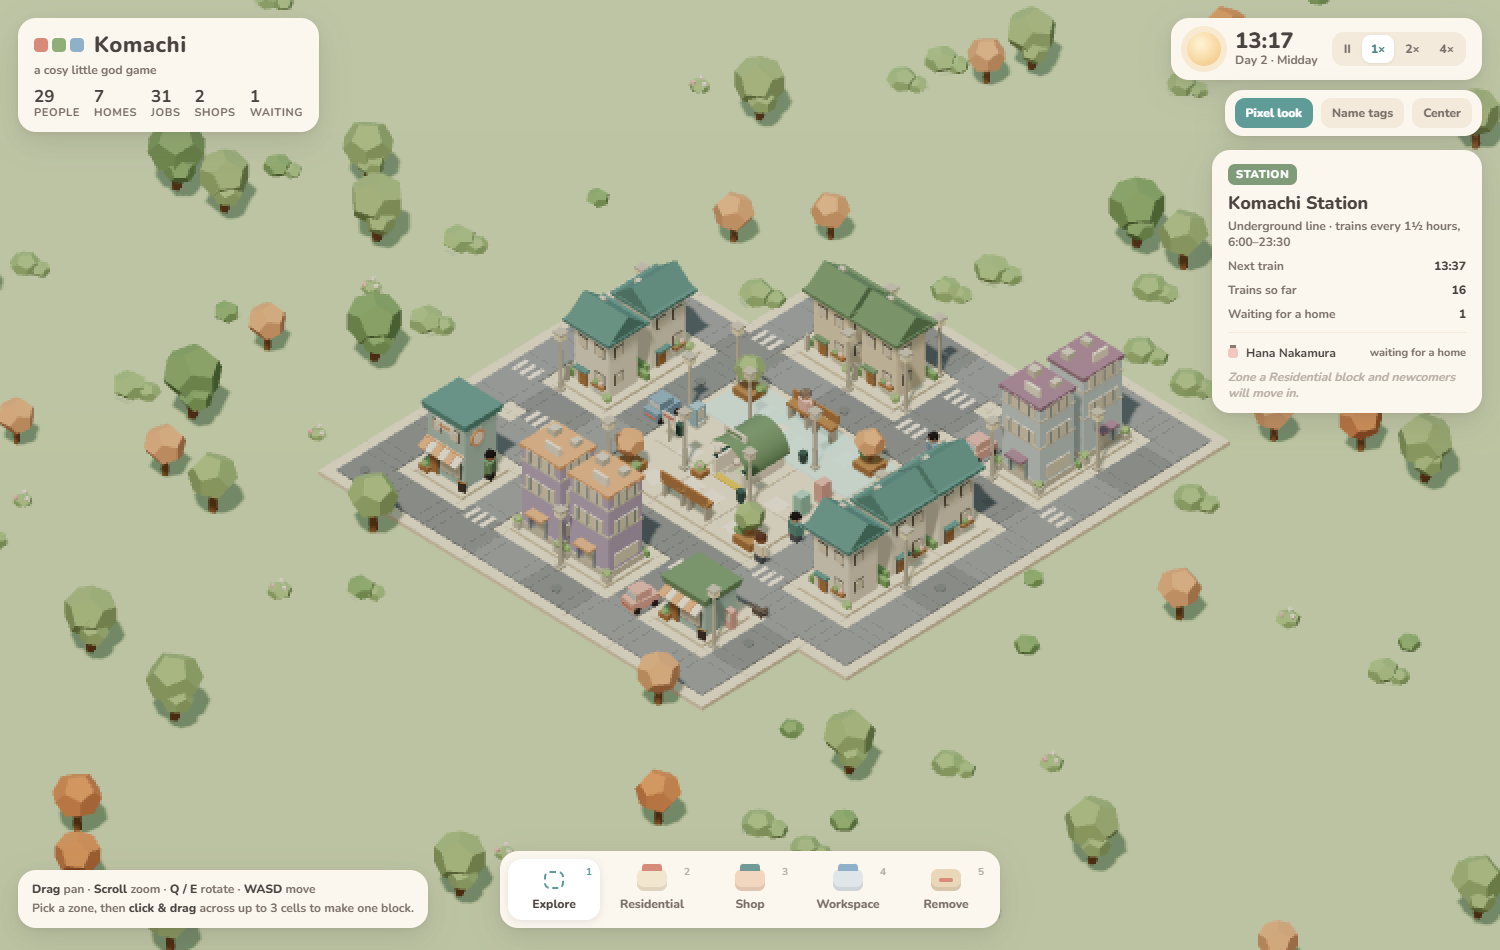
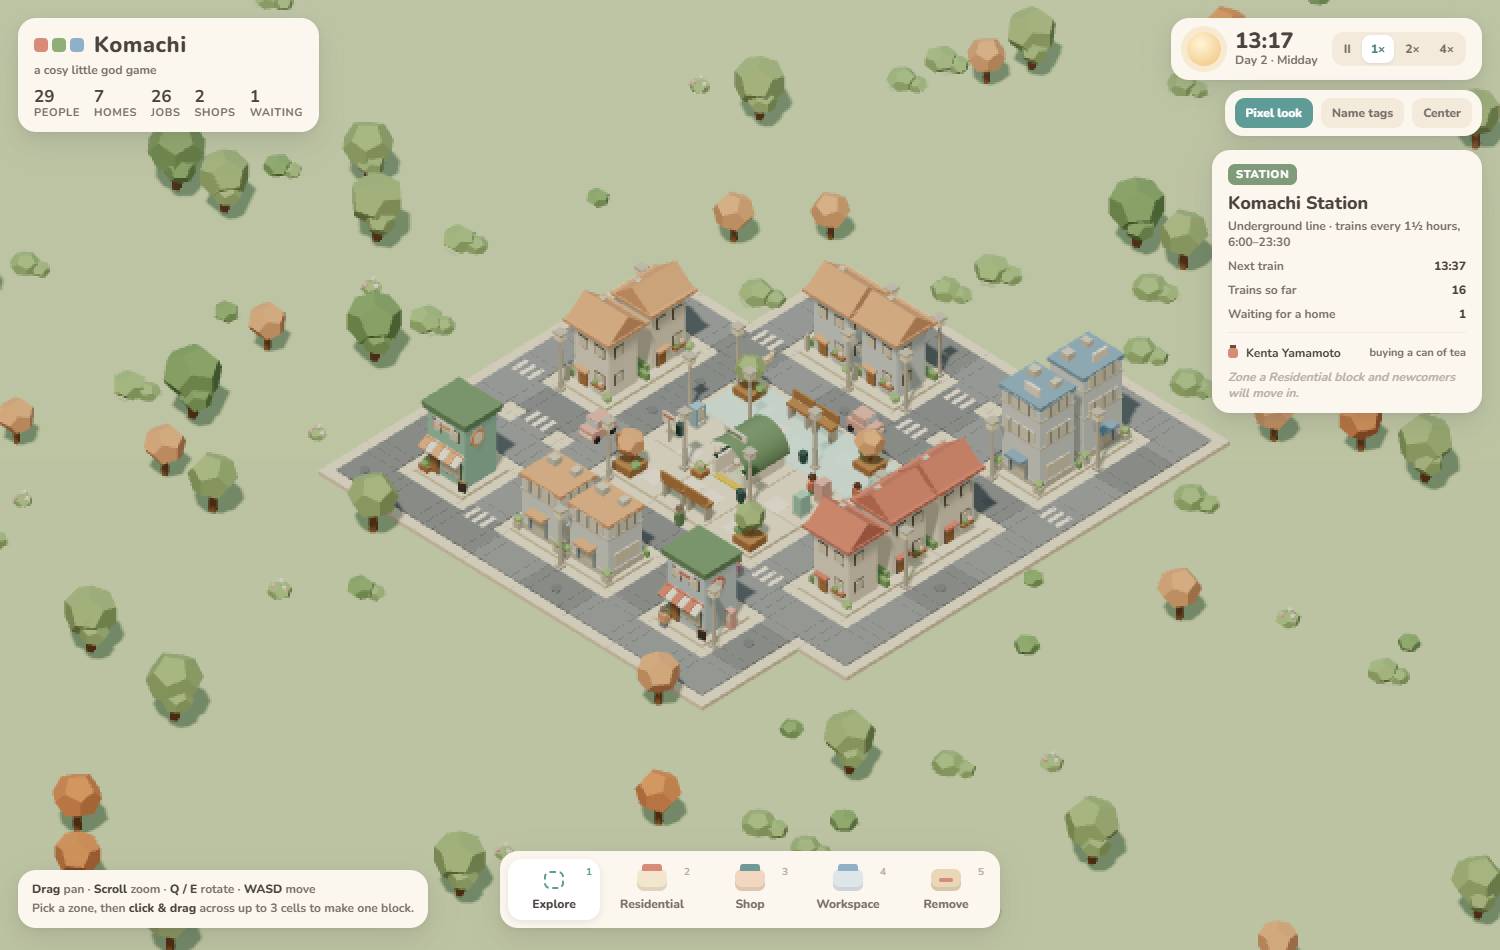
update md and now human come out from the doors

diff --git a/src/sim.js b/src/sim.js
@@ -6,7 +6,7 @@ import { S } from './state.js';
 import { N, HALF, cx, cz, townGroup, peopleGroup, disposeGroup } from './scene.js';
 import { box, cyl, colorize, mergeMesh } from './geometry.js';
 import { cells, cell, DIR4, treeSpec, lotAdjacent8, blocks, units, STAGE_HOURS, unitCap, refreshWorld, onWorldChange, STATION } from './world.js';
-import { rebuildUnitMesh } from './buildings.js';
+import { rebuildUnitMesh, unitDoorPoints } from './buildings.js';
 import { toast } from './toast.js';
 
 // ───────────────────────────── time ─────────────────────────────
@@ -36,8 +36,14 @@ function routeUnits(a, b) {
   const p = routeCells(roadNeighbors(a.cell), roadNeighbors(b.cell)); pathCache.set(key, p); return p;
 }
 const unitPos = u => new THREE.Vector3(cx(u.cell.i), 0, cz(u.cell.j));
+const exitPts = u => unitDoorPoints(u);                 // doorstep → kerb
+const entryPts = u => unitDoorPoints(u).reverse();      // kerb → doorstep
+/** start / end may be a single point or an ordered list of points (e.g. doorstep then kerb). */
 function buildPoints(cellPath, start, end, side, y) {
-  const pts = [start.clone().setY(y)];
+  const sArr = Array.isArray(start) ? start : [start], eArr = Array.isArray(end) ? end : [end];
+  start = sArr[sArr.length - 1]; end = eArr[0];
+  const keepY = p => p.y > 0 ? p.clone() : p.clone().setY(y);   // door points carry their own height
+  const pts = sArr.map(keepY);
   const n = cellPath.length;
   for (let k = 0; k < n; k++) {
     const c = cellPath[k], p = new THREE.Vector3(cx(c.i), y, cz(c.j));
@@ -50,12 +56,13 @@ function buildPoints(cellPath, start, end, side, y) {
     p.x += -dz * side; p.z += dx * side;      // right-hand offset
     pts.push(p);
   }
-  pts.push(end.clone().setY(y));
+  for (const p of eArr) pts.push(keepY(p));
   return pts;
 }
 
 // ───────────────────────────── meshes: people, cars, cats ─────────────────────────────
 const carMeshes = [];
+const PERSON_SCALE = 0.7;   // a floor is ~0.55 units; people read as a bit over half a storey tall
 function makePerson(r) {
   const grp = new THREE.Group(); const g = [];
   g.push(box(0.15, 0.13, 0.11, r.pants, 0, 0.065, 0));
@@ -64,7 +71,7 @@ function makePerson(r) {
   const head = new THREE.SphereGeometry(0.085, 8, 6); head.translate(0, 0.42, 0); g.push(colorize(head, r.skin));
   if (r.hat) { g.push(cyl(0.11, 0.11, 0.03, r.hatColor, 0, 0.47, 0, 10)); g.push(cyl(0.07, 0.075, 0.07, r.hatColor, 0, 0.51, 0, 10)); }
   else { const hair = new THREE.SphereGeometry(0.09, 8, 6, 0, Math.PI * 2, 0, Math.PI / 2); hair.translate(0, 0.43, 0); g.push(colorize(hair, r.hair)); }
-  const m = mergeMesh(g, false); m.castShadow = true; grp.add(m); grp.visible = false; grp.userData.res = r; peopleGroup.add(grp); return grp;
+  const m = mergeMesh(g, false); m.castShadow = true; m.scale.setScalar(PERSON_SCALE); grp.add(m); grp.visible = false; grp.userData.res = r; peopleGroup.add(grp); return grp;
 }
 function makeCar(color) {
   const grp = new THREE.Group(); const g = [];
@@ -83,7 +90,7 @@ function makeCat(color) {
   g.push(box(0.2, 0.09, 0.1, color, 0, 0.08, 0)); const hd = new THREE.SphereGeometry(0.06, 7, 5); hd.translate(0.12, 0.14, 0); g.push(colorize(hd, color));
   g.push(box(0.03, 0.04, 0.03, color, 0.14, 0.19, -0.03)); g.push(box(0.03, 0.04, 0.03, color, 0.14, 0.19, 0.03));
   g.push(box(0.12, 0.03, 0.03, color, -0.14, 0.13, 0, 0)); for (const [x, z] of [[-0.07, -0.03], [0.07, -0.03], [-0.07, 0.03], [0.07, 0.03]]) g.push(box(0.03, 0.05, 0.03, color, x, 0.025, z));
-  const inner = new THREE.Group(); inner.rotation.y = -Math.PI / 2; grp.add(inner);
+  const inner = new THREE.Group(); inner.rotation.y = -Math.PI / 2; inner.scale.setScalar(0.8); grp.add(inner);
   const m = mergeMesh(g, false); inner.add(m); peopleGroup.add(grp); return grp;
 }
 
@@ -154,8 +161,8 @@ function assignHome(r, u) {
   freeSpot(r); if (r.at) r.at.inside.delete(r); r.at = null;
   const start = r.mesh.position.clone().setY(0);
   const path = routeCells(roadNeighbors(STATION.anchor.cell), roadNeighbors(u.cell));
-  if (path) startTrip(r, path, start, unitPos(u), u, 'moving into a new home');
-  else startDirectTrip(r, start, unitPos(u), 'moving in the long way round', () => enterUnit(r, u), 0.06);   // no road yet: cut across the grass
+  if (path) startTrip(r, path, start, entryPts(u), u, 'moving into a new home');
+  else startDirectTrip(r, start, exitPts(u)[0], 'moving in the long way round', () => enterUnit(r, u), 0.06);   // no road yet: cut across the grass
 }
 function enterUnit(r, u) {
   r.trip = null; r.mesh.visible = false; if (r.car) r.car.visible = false;
@@ -227,6 +234,7 @@ function findShop(r, from) {
 }
 function startTrip(r, cellPath, start, end, destUnit, label) {
   const drive = r.hasCar && cellPath.length > 6 && destUnit && destUnit !== STATION.anchor && r.at !== STATION.anchor;
+  if (drive) { if (Array.isArray(start)) start = start[start.length - 1]; if (Array.isArray(end)) end = end[0]; }   // cars stop at the kerb
   const pts = buildPoints(cellPath, start, end, drive ? 0.17 : 0.34, drive ? 0.1 : 0.08);
   r.trip = { pts, i: 0, t: 0, dest: destUnit, drive, speed: drive ? 2.6 : 0.9 * rand(0.85, 1.15), baseY: 0.08 };
   r.state = drive ? 'driving' : 'walking'; r.activity = label;
@@ -236,10 +244,10 @@ function startTrip(r, cellPath, start, end, destUnit, label) {
 function go(r, dest, label) {
   const from = r.at; const path = routeUnits(from, dest);
   if (!path) { r.next = S.T + rand(0.4, 0.9); return false; }
-  const start = from === STATION.anchor ? r.mesh.position.clone().setY(0) : unitPos(from);
+  const start = from === STATION.anchor ? r.mesh.position.clone().setY(0) : exitPts(from);
   if (from === STATION.anchor) freeSpot(r);
   from.inside.delete(r); r.at = null;
-  startTrip(r, path, start, unitPos(dest), dest, label); return true;
+  startTrip(r, path, start, dest === STATION.anchor ? STATION.entrance : entryPts(dest), dest, label); return true;
 }
 function stroll(r) {
   const roads = cells.filter(c => c.type === 'road'); if (!roads.length) return false;
@@ -248,7 +256,7 @@ function stroll(r) {
   if (!path) return false;
   from.inside.delete(r); r.at = null; r.strollHome = true;
   const last = path[path.length - 1];
-  startTrip(r, path, unitPos(from), new THREE.Vector3(cx(last.i), 0, cz(last.j)), null, pick(['taking a walk', 'out for a stroll', 'walking the dog', 'going jogging']));
+  startTrip(r, path, exitPts(from), new THREE.Vector3(cx(last.i), 0, cz(last.j)), null, pick(['taking a walk', 'out for a stroll', 'walking the dog', 'going jogging']));
   return true;
 }
 function arrive(r) {
@@ -259,7 +267,7 @@ function arrive(r) {
   if (!tr.dest) {   // strolled to a road cell: turn around and head home
     if (!r.home) { returnToStation(r, endPos); return; }
     const c = cellAt(endPos); const path = c ? routeCells([c], roadNeighbors(r.home.cell)) : null;
-    if (path) startTrip(r, path, endPos.clone().setY(0), unitPos(r.home), r.home, 'heading home');
+    if (path) startTrip(r, path, endPos.clone().setY(0), entryPts(r.home), r.home, 'heading home');
     else { r.at = r.home; r.home.inside.add(r); r.state = 'inside'; r.next = S.T; }
     return;
   }
@@ -325,7 +333,7 @@ function updateResidents(simDt, realT) {
       if (done) arrive(r);
     } else {
       const done = moveAlong(r.mesh, tr, tr.speed * simDt);
-      r.mesh.position.y = tr.baseY + Math.abs(Math.sin(realT * 9 + r.phase)) * 0.025 * Math.min(1, S.speed);
+      r.mesh.position.y += Math.abs(Math.sin(realT * 9 + r.phase)) * 0.018 * Math.min(1, S.speed);
       if (done) arrive(r);
     }
   }

diff --git a/src/buildings.js b/src/buildings.js
@@ -10,6 +10,20 @@ function dims(type, level) {
   if (type === 'shop') return { w: 0.78, d: 0.66, H: 0.62 + (level >= 2 ? 0.5 : 0) };
   return { w: 0.8, d: 0.7, H: 0.95 + (level - 1) * 0.55 };
 }
+/** Where the front door is, in the unit's local space (front face is +z before the unit is rotated). */
+function doorLocal(type, level) {
+  const { d } = dims(type, level);
+  const x = type === 'res' ? -0.16 : type === 'shop' ? -0.24 : 0;
+  return { x, z: d / 2 + 0.02 };
+}
+/** World-space points for entering/leaving a unit: [doorstep, kerb]. The kerb sits just past the plinth on the sidewalk. */
+function unitDoorPoints(u) {
+  const ry = u.facing || 0, s = Math.sin(ry), c = Math.cos(ry);
+  const { x, z } = u.block.type === 'station' ? { x: 0, z: 0.5 } : doorLocal(u.block.type, u.block.level);
+  const px = cx(u.cell.i), pz = cz(u.cell.j);
+  const local = (lx, lz, y) => new THREE.Vector3(px + lx * c + lz * s, y, pz - lx * s + lz * c);
+  return [local(x, z, 0.12), local(x, 0.64, 0.08)];   // doorstep on the plinth, kerb on the sidewalk
+}
 function tiltBox(w, h, d, hex, x, y, z, rx) { const g = new THREE.BoxGeometry(w, h, d); g.rotateX(rx); g.translate(x, y, z); return colorize(g, hex); }
 const WIN_FRAME = '#8d8378', MULLION = '#9aa4aa', CHALK = '#5a504a';
 
@@ -182,4 +196,4 @@ function rebuildUnitMesh(u, pop = false) {
   if (pop) u.pop = 1;
 }
 
-export { dims, rebuildUnitMesh };
+export { dims, doorLocal, unitDoorPoints, rebuildUnitMesh };

diff --git a/src/world.js b/src/world.js
@@ -114,7 +114,7 @@ const STATION = {
   seats: [], stands: [], vending: [],
 };
 for (const side of [-1, 1]) for (const bx of [-0.25, 0.25]) for (const sx of [-0.11, 0.11])
-  STATION.seats.push({ kind: 'seat', pos: new THREE.Vector3(SX + bx + sx, BENCH_Y - 0.11, SZ + side * 1.3), rot: side < 0 ? 0 : Math.PI, taken: null });
+  STATION.seats.push({ kind: 'seat', pos: new THREE.Vector3(SX + bx + sx, BENCH_Y - 0.09, SZ + side * 1.3), rot: side < 0 ? 0 : Math.PI, taken: null });
 for (const [dx, dz] of [[-1.3, -1.3], [1.3, -1.3], [-1.3, 1.3], [1.3, 1.3]])
   STATION.stands.push({ kind: 'stand', pos: new THREE.Vector3(SX + dx * 0.6, 0.12, SZ + dz * 0.6), rot: Math.atan2(-dx, -dz), taken: null });
 for (const dz of [-0.22, 0.22]) STATION.vending.push({ pos: new THREE.Vector3(SX + 1.08, 0.12, SZ + dz), rot: Math.PI / 2, taken: null });

diff --git a/src/input.js b/src/input.js
@@ -113,7 +113,7 @@ const tagV = new THREE.Vector3();
 function updateTags() {
   if (!showTags) return;
   let html = '', n = 0;
-  for (const r of residents) { if (r.state !== 'walking' || n > 40) continue; tagV.copy(r.mesh.position); tagV.y += 0.6; tagV.project(camera); if (tagV.z > 1) continue;
+  for (const r of residents) { if (r.state !== 'walking' || n > 40) continue; tagV.copy(r.mesh.position); tagV.y += 0.45; tagV.project(camera); if (tagV.z > 1) continue;
     html += `<div class="tag" style="left:${(tagV.x + 1) / 2 * innerWidth}px;top:${(1 - tagV.y) / 2 * innerHeight}px">${esc(r.name.split(' ')[0])}</div>`; n++; }
   ui.tags.innerHTML = html;
 }

diff --git a/docs/ART_DIRECTION.md b/docs/ART_DIRECTION.md
@@ -11,7 +11,7 @@ its content.
 | Palette | Cream stone, peach/dusty-orange trees, sage and mint greens, muted teal roof, powder-blue roof, dusty-rose roof, pale mint water | Fixed 24-swatch palette (`PAL` in index.html). Nothing outside it. |
 | Saturation | Everything ~25–45% saturation, no pure hues | All colours pre-desaturated; night tint shifts toward cool blue, never black |
 | Geometry | Chunky boxes with slightly rounded/bevelled silhouettes, thick roofs, oversized details (lamps, signs, awnings) | Buildings are stacked boxes + prism roofs; details are 1.5–2× "real" scale |
-| Proportion | Buildings ~1 cell wide, ~1–2 cells tall; people are ~1/4 building height | Cell = 1 unit; house 0.55 u per floor; person 0.42 u tall |
+| Proportion | Buildings ~1 cell wide, ~1–2 cells tall; people are ~1/4 building height | Cell = 1 unit; house 0.55 u per floor; person about 0.3 u tall (0.7 × the base model) |
 | Camera | Clean 3/4 orthographic view, ~35–40° elevation, 45° azimuth | Orthographic camera, pitch 38°, yaw 45°, smooth rotate/zoom |
 | Lighting | Soft top-left key, gentle warm shadows, no speculars | Matte materials (roughness 0.95, metalness 0), soft PCF shadows, hemisphere fill |
 | Ground | Cream sidewalk everywhere, grey asphalt inset, bushes filling gaps | Every road cell is a cream slab with an inset asphalt cross; empty cells grow bushes/trees |

diff --git a/docs/ARCHITECTURE.md b/docs/ARCHITECTURE.md
@@ -42,7 +42,7 @@ machine, and are claimed by `assignHome()` when a finished home has room. Losing
 **Resident.** Belongs to a home unit, may hold a job at a shop or workspace, and is either
 `inside` a unit or on a trip. Decisions are made by `decide()` in `sim.js` when the resident's
 `next` time arrives. Trips are lists of world points along road cells with a right-hand offset
-(0.34 for walkers on the sidewalk, 0.17 for cars on the asphalt). A trip may instead carry an
+(0.34 for walkers on the sidewalk, 0.17 for cars on the asphalt). Trips to or from a building begin and end at its front door: `unitDoorPoints()` in `buildings.js` returns the doorstep (on the plinth) and the kerb (on the sidewalk), rotated by the unit's facing. Cars stop at the kerb. A trip may instead carry an
 `onArrive` callback and two points (`startDirectTrip`) for short walks inside the plaza or a
 cross-country move-in when no road connects yet.
 

diff --git a/CHANGELOG.md b/CHANGELOG.md
@@ -16,6 +16,8 @@ All notable changes to Komachi are recorded here. The format follows
 
 ### Changed
 
+- People leave and enter buildings through the front door: doorstep, then kerb, then the sidewalk
+- People are 30 % smaller (a storey is now about one and a half people tall); cats 20 % smaller
 - Residents no longer spawn inside homes; population growth now depends on the train timetable
 - Residential blocks are named after places (Sakura Terrace) instead of the first family, since
   residents keep their own surnames
